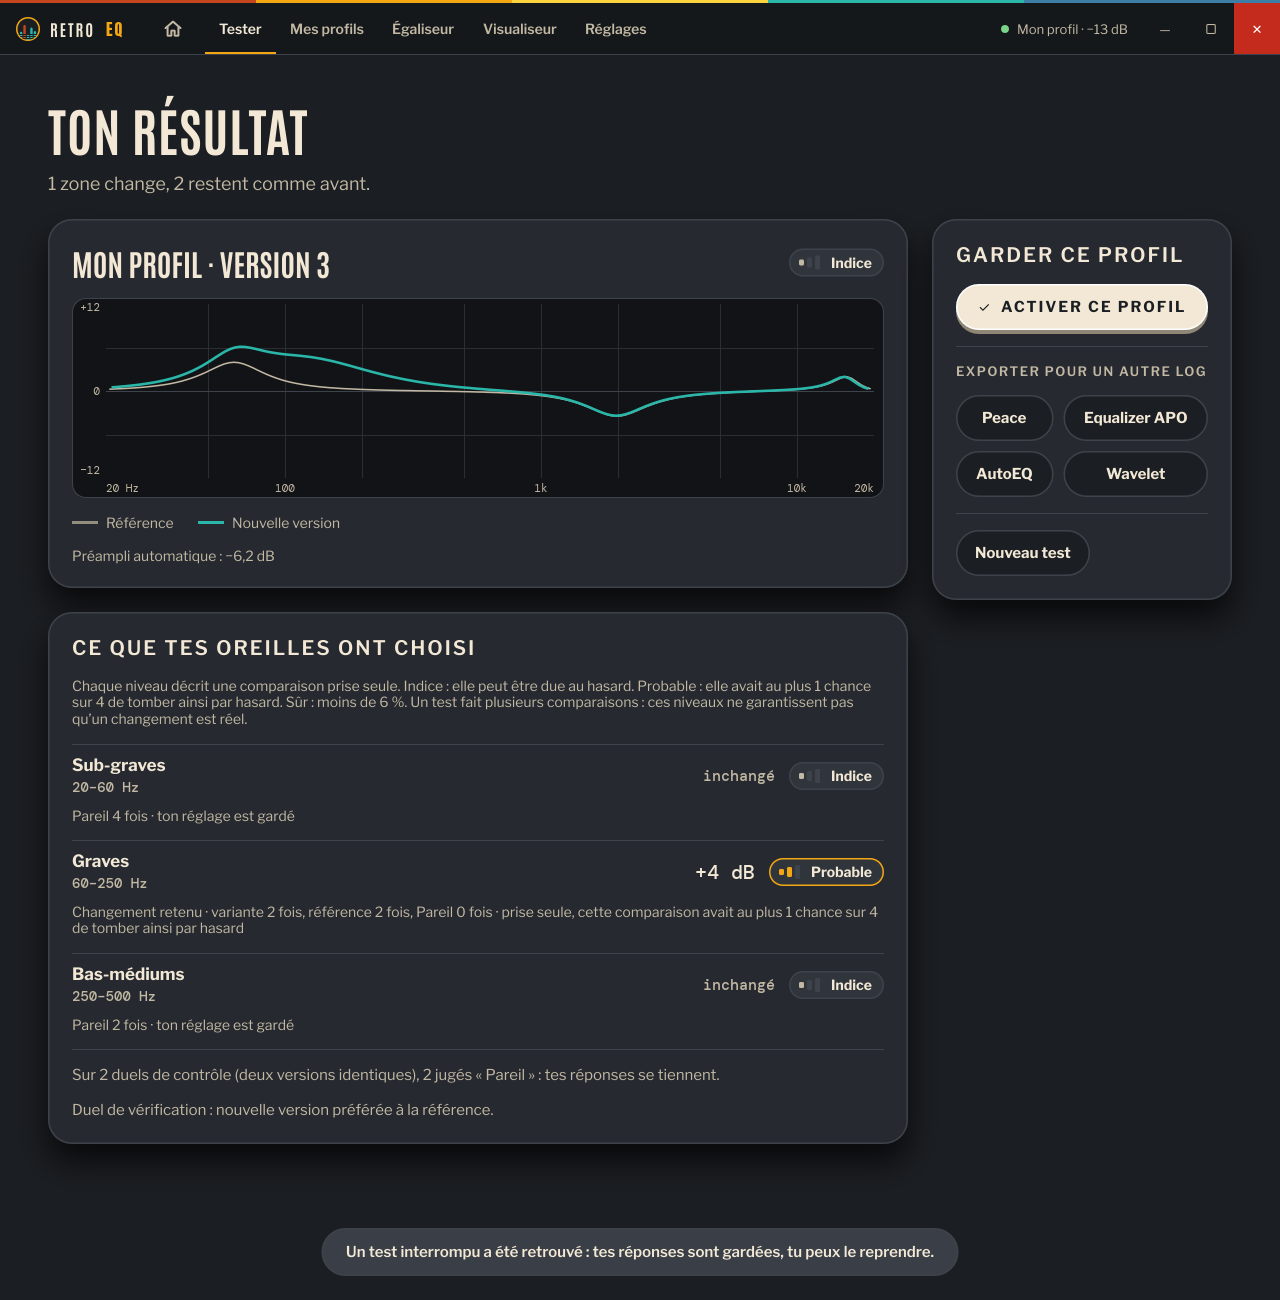
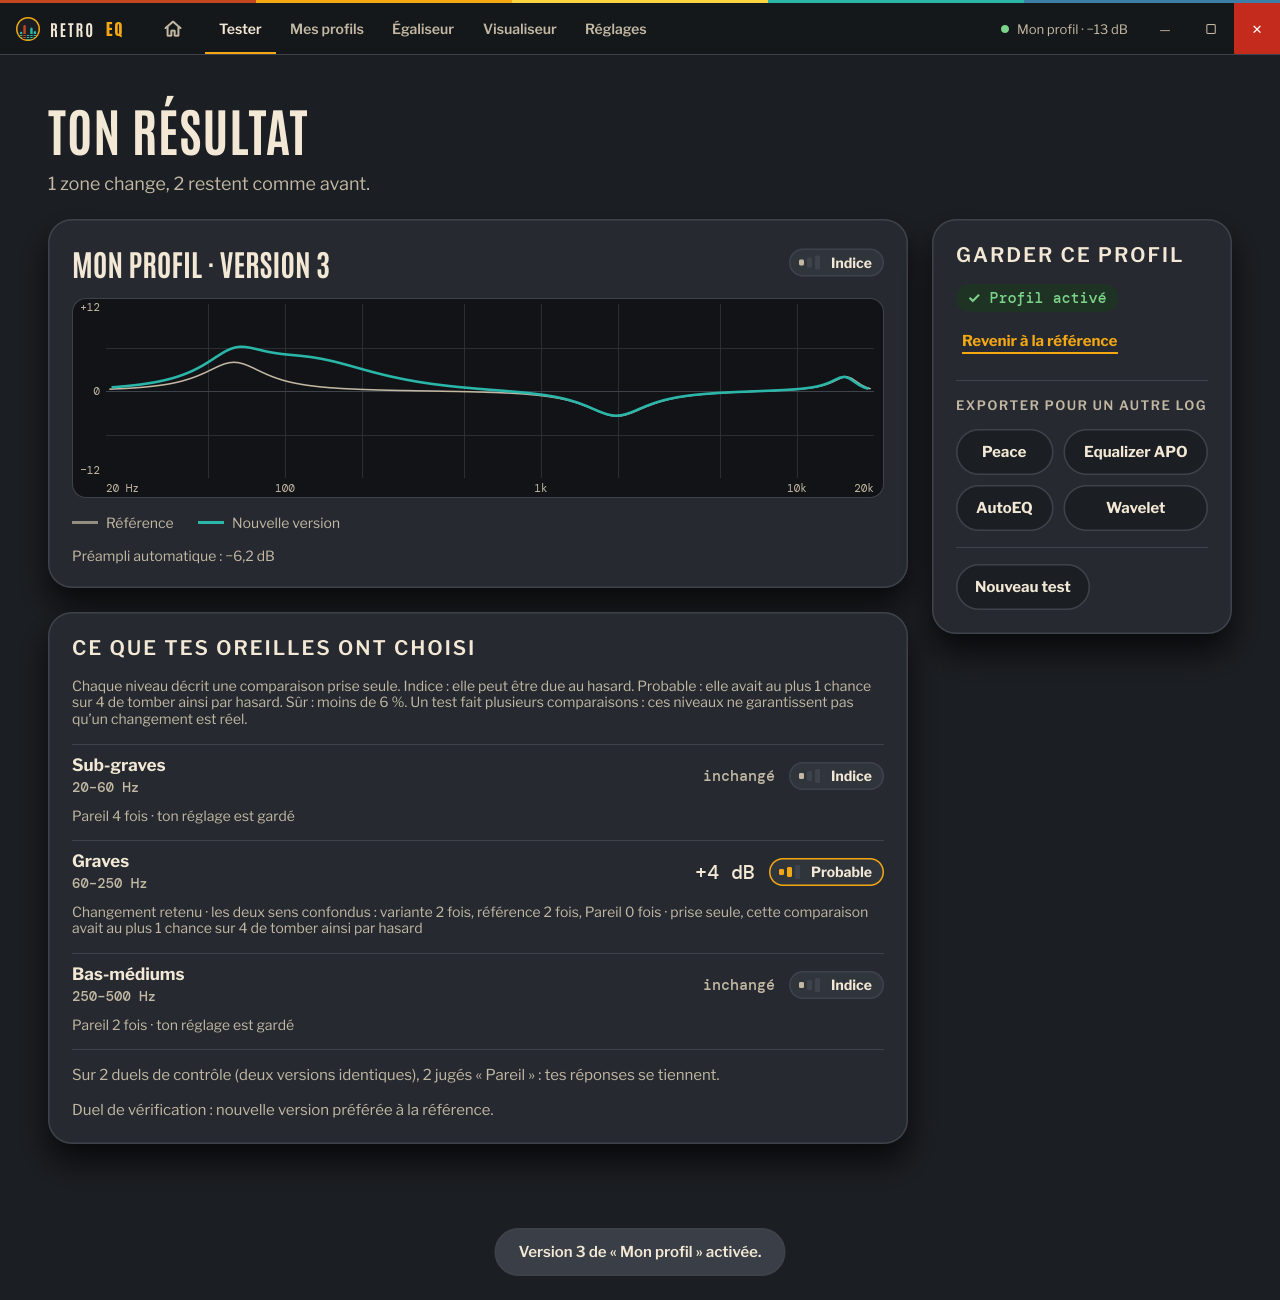
Branche l'appli : contrôleur, pont avec l'interface, raccourcis, barre des tâches, mini-fenêtre, autotest
L'appli fonctionne de bout en bout avec le moteur simulé : accord avant d'écrire chez
Equalizer APO, égaliseur, test complet, reprise après un arrêt brutal, import et export.

Claude-Session: https://claude.ai/code/session_01P4UXuytFnATM396xAcw4ub

Changed region(s): [[0.7188, 0.2154, 0.9688, 0.4923], [0.25, 0.9231, 0.75, 0.9846], [0.0625, 0.6769, 0.6875, 0.7385]]

diff --git a/crates/retro-app/src/textes.rs b/crates/retro-app/src/textes.rs
@@ -133,23 +133,6 @@ fn pluriel(n: u32, singulier: &str, pluriel: &str) -> String {
     }
 }
 
-/// Un gain en dB avec son signe : « +4 dB », « −2,5 dB », « 0 dB ».
-pub fn db(valeur: f64) -> String {
-    let arrondi = (valeur * 10.0).round() / 10.0;
-    let nombre = if arrondi.fract() == 0.0 {
-        format!("{}", arrondi.abs() as i64)
-    } else {
-        format!("{:.1}", arrondi.abs()).replace('.', ",")
-    };
-    if arrondi > 0.0 {
-        format!("+{nombre} dB")
-    } else if arrondi < 0.0 {
-        format!("−{nombre} dB")
-    } else {
-        "0 dB".to_string()
-    }
-}
-
 /// Une fréquence lisible : « 250 Hz », « 2 kHz ».
 fn frequence(hz: f64) -> (String, &'static str) {
     if hz >= 1000.0 {
@@ -292,14 +275,6 @@ pub fn niveau_confiance(confiance: Confiance) -> i32 {
     }
 }
 
-pub fn nom_confiance(confiance: Confiance) -> &'static str {
-    match confiance {
-        Confiance::Indice => "Indice",
-        Confiance::Probable => "Probable",
-        Confiance::Sur => "Sûr",
-    }
-}
-
 /// Le résumé d'un résultat par zones : « 2 zones changent, 3 restent comme avant. »
 pub fn resume_zones(changees: u32, inchangees: u32, rien_retenu: bool) -> String {
     if rien_retenu {
@@ -373,7 +348,7 @@ pub fn verification(preference: Option<Preference>) -> String {
 /// Le détail d'une zone du résultat : les comptes tels quels, sans précision inventée.
 pub fn detail_zone(z: &ResultatZone, rien_retenu: bool) -> String {
     let comptes = format!(
-        "variante {} fois, référence {} fois, Pareil {} fois",
+        "les deux sens confondus : variante {} fois, référence {} fois, Pareil {} fois",
         z.pour_variante, z.pour_reference, z.pareil
     );
     if rien_retenu {
@@ -709,14 +684,6 @@ pub fn bilan_autotest(bons: usize, a_verifier: usize, erreurs: usize) -> String 
 #[cfg(test)]
 mod tests {
     use super::*;
-
-    #[test]
-    fn les_gains_sont_ecrits_a_la_francaise() {
-        assert_eq!(db(4.0), "+4 dB");
-        assert_eq!(db(-2.5), "−2,5 dB");
-        assert_eq!(db(0.0), "0 dB");
-        assert_eq!(db(-0.01), "0 dB");
-    }
 
     #[test]
     fn les_plages_de_zone_melangent_hz_et_khz_quand_il_faut() {

diff --git a/crates/retro-app/src/controleur/mod.rs b/crates/retro-app/src/controleur/mod.rs
@@ -23,7 +23,7 @@ use retro_core::{
     Entree, ErreurDepot, ErreurProfil, ErreurReprise, EtatMoteurSauve, EtatTest, Evenement,
     FadersEtSupplementaires, HasardGraine, HasardReel, HistoriquePlan, Journal, Langue, Mode,
     Navigation, Origine, ParametresTest, Profil, RaisonPause, ReglagesAppli, ReglagesTest,
-    ReglagesVariantes, Reponse, ResultatTest, Sujet, Version, Zone,
+    ReglagesVariantes, Reponse, ResultatTest, Version, Zone,
 };
 use retro_dsp::{Courbe, Spectre};
 use retro_engine::{ErreurMoteur, EtatMoteur, Moteur, SortieAudio};
@@ -563,6 +563,14 @@ impl Controleur {
 
     /// Coupe ou remet l'égaliseur (Ctrl+Alt+0). Le moteur reste en place, à plat.
     pub fn basculer_egaliseur(&mut self) {
+        // Tant que l'accord n'est pas donné, il n'y a rien à couper : on le dit.
+        if !self.reglages.moteur_autorise && !self.options.moteur_absent {
+            self.annonce = Some(Annonce {
+                texte: textes::ANNONCE_PAS_ENCORE_ACTIVE.to_string(),
+                erreur: true,
+            });
+            return;
+        }
         self.tenter(|c| {
             c.exiger_pas_de_test()?;
             c.reglages.egaliseur_coupe = !c.reglages.egaliseur_coupe;

diff --git a/crates/retro-app/src/controleur/tests.rs b/crates/retro-app/src/controleur/tests.rs
@@ -4,7 +4,7 @@
 #![allow(clippy::unwrap_used)]
 
 use super::*;
-use retro_core::{DuelPrevu, LectureJournal};
+use retro_core::{DuelPrevu, LectureJournal, Sujet};
 use retro_dsp::TypeFiltre;
 use retro_engine::{Appel, MoteurSimule};
 use tempfile::TempDir;
@@ -678,11 +678,7 @@ fn sans_changement_la_nouvelle_version_est_activee_avec_des_pas_reduits() {
     let profil = banc.depot().charger_profil("mon-profil").unwrap();
     assert_eq!(profil.numero_actif(), 2);
     assert_eq!(profil.version_active().courbe, profil.versions()[0].courbe);
-    assert!(profil
-        .version_active()
-        .pas_par_zone
-        .iter()
-        .any(|&pas| pas == 2.0));
+    assert!(profil.version_active().pas_par_zone.contains(&2.0));
     assert_eq!(
         banc.depot().charger_etat_moteur().unwrap().unwrap().version,
         Some(2)

diff --git a/crates/retro-app/src/barre.rs b/crates/retro-app/src/barre.rs
@@ -4,6 +4,8 @@
 
 /// Ce que l'utilisateur a demandé depuis l'icône.
 #[derive(Debug, Clone, Copy, PartialEq, Eq)]
+// Hors Windows il n'y a pas d'icône : personne ne fabrique ces demandes.
+#[cfg_attr(not(windows), allow(dead_code))]
 pub enum EvenementBarre {
     Ouvrir,
     BasculerEgaliseur,
@@ -30,7 +32,8 @@ mod systeme {
         let mut rgba = Vec::with_capacity((COTE * COTE * 4) as usize);
         for y in 0..COTE {
             for x in 0..COTE {
-                let coin = (x < 3 || x >= COTE - 3) && (y < 3 || y >= COTE - 3);
+                let bord = |v: u32| !(3..COTE - 3).contains(&v);
+                let coin = bord(x) && bord(y);
                 let couleur = if coin {
                     [0, 0, 0, 0]
                 } else {
